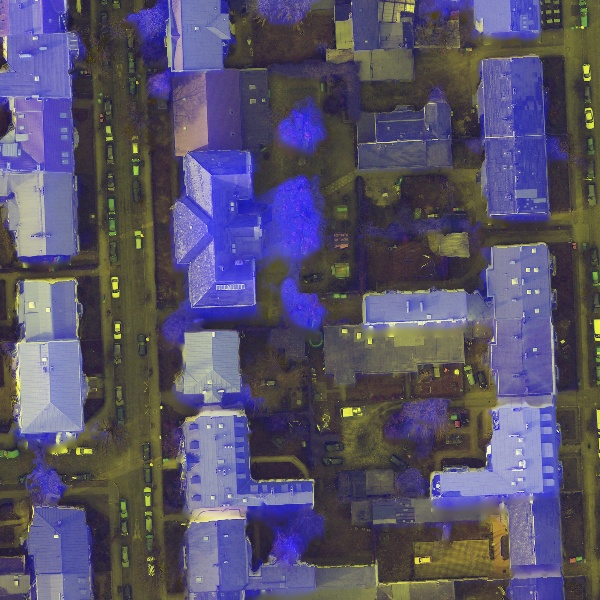
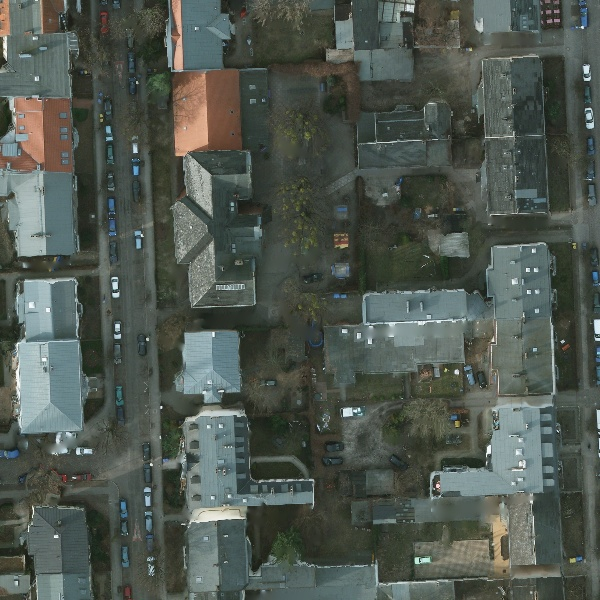
updates

diff --git a/README.md b/README.md
@@ -36,3 +36,9 @@ Haralick (Co-occurance matrix) features (Also texture):
 ### Example Usage
 
 python train.py -i <path_to_image_folder> -l <path_to_label_folder> -c <SVM, RF, GBC> -o <path/to/model.p>
+
+### Example Output
+
+![alt text][image]
+
+[image]: https://github.com/dgriffiths3/ml_segmentation/tree/master/pots/image.png "Example Output"
